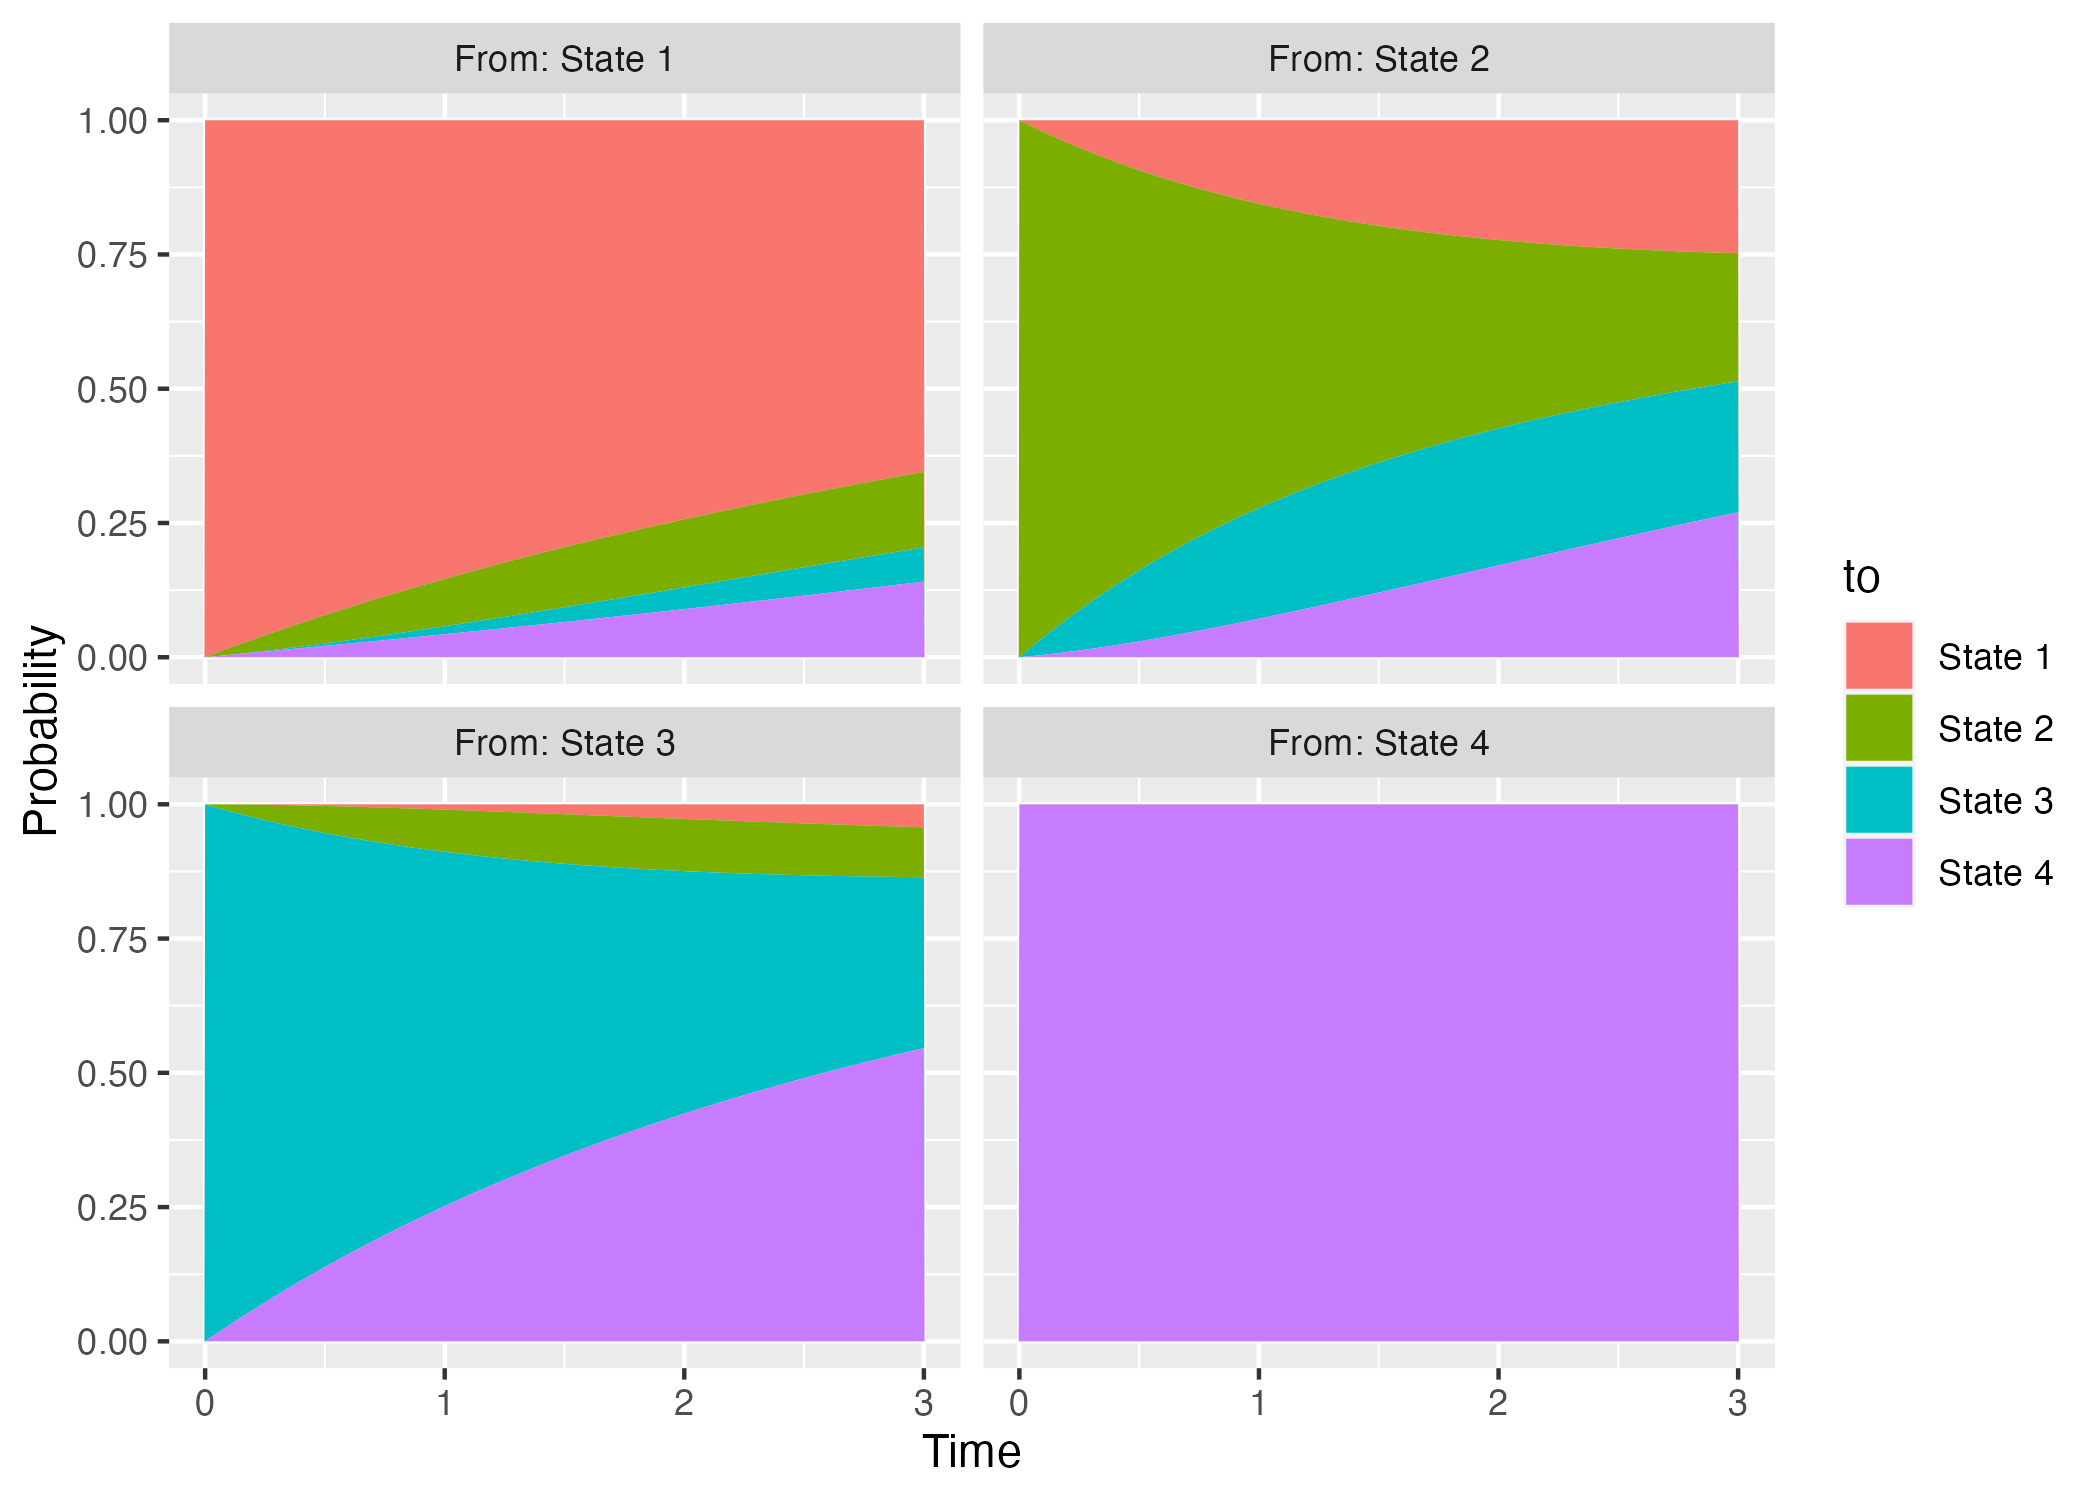
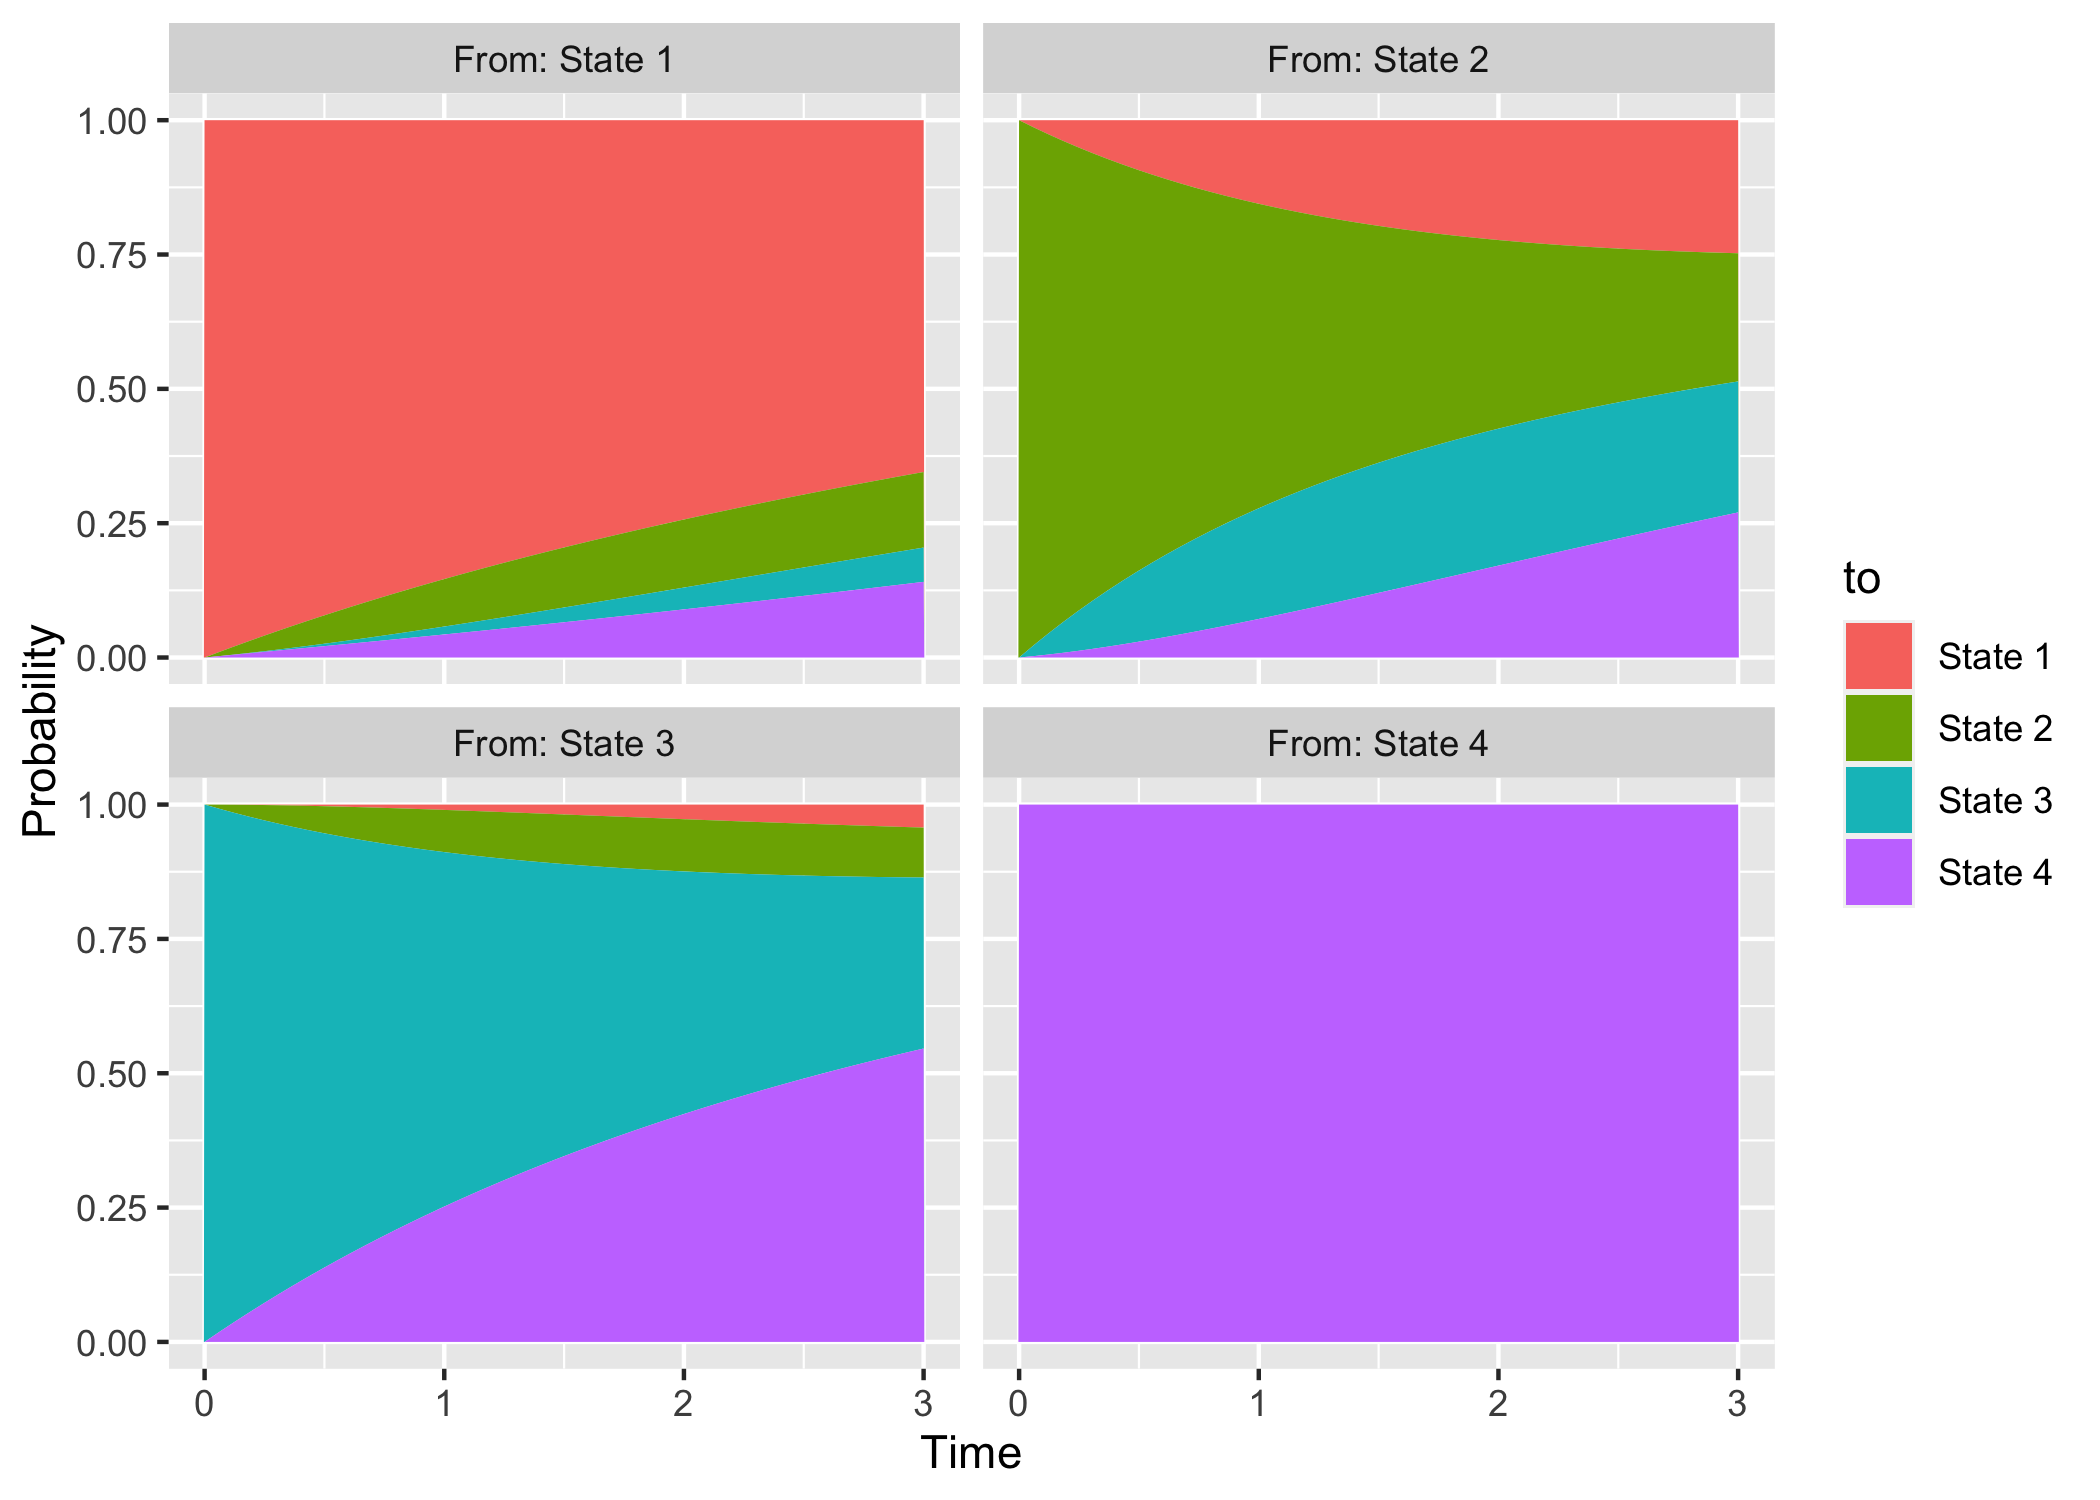
Removed use of {ragg}

diff --git a/README.md b/README.md
@@ -62,8 +62,8 @@ twoway4.q
 #> [4,]  0.000  0.000  0.000 0.000
 ```
 
-This is then used to provide starting values for the model without any
-additional covariate:
+This is then used to provide starting values for the model without
+additional covariates:
 
 ``` r
 cav.msm <- msm(
